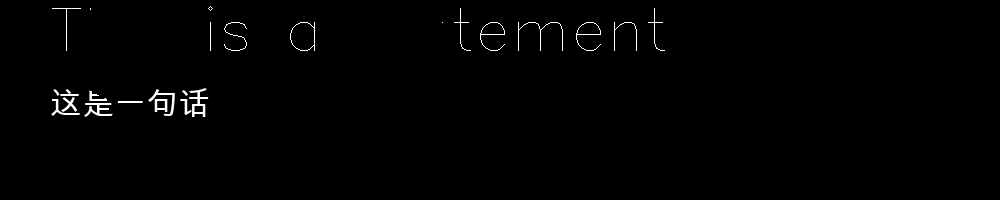
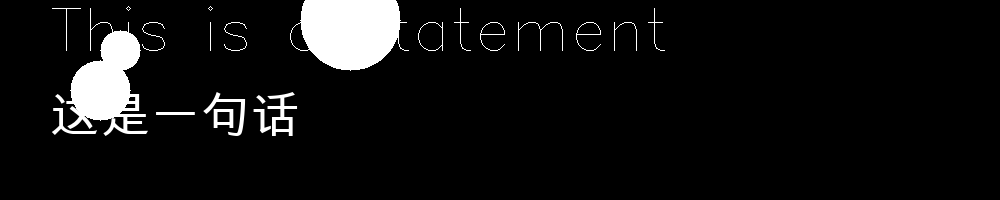
cmt

Changed region(s): [[0.031, 0.15, 0.31, 0.69], [0.279, 0.0, 0.403, 0.36]]

diff --git a/ImgEdit.py b/ImgEdit.py
@@ -18,7 +18,7 @@ def get_img(name):
     my_path = os.path.dirname(__file__)
     fontpath = my_path + "/fonts/English.ttf" # <== 这里是宋体路径
     img1 = np.zeros((500, 700, 3), np.uint8)
-    font = ImageFont.truetype(fontpath, 32)
+    font = ImageFont.truetype(fontpath, 50)
 
     img_pil = Image.fromarray(img)
     draw = ImageDraw.Draw(img_pil)
@@ -28,9 +28,9 @@ def get_img(name):
 
 
 img = get_img("f")
-img = cv2.circle(img, (120, 50), 50, (0, 0, 0), -1)
-img = cv2.circle(img, (300, 500), 50, (0, 0, 0), -1)
-img = cv2.circle(img, (400, 50), 50, (0, 0, 0), -1)
+img = cv2.circle(img, (120, 50), 20, (255, 255, 255), -1)
+img = cv2.circle(img, (350, 20), 50, (255, 255, 255), -1)
+img = cv2.circle(img, (100, 90), 30, (255, 255, 255), -1)
 
 ## Display
 cv2.imwrite("res.png", img)
